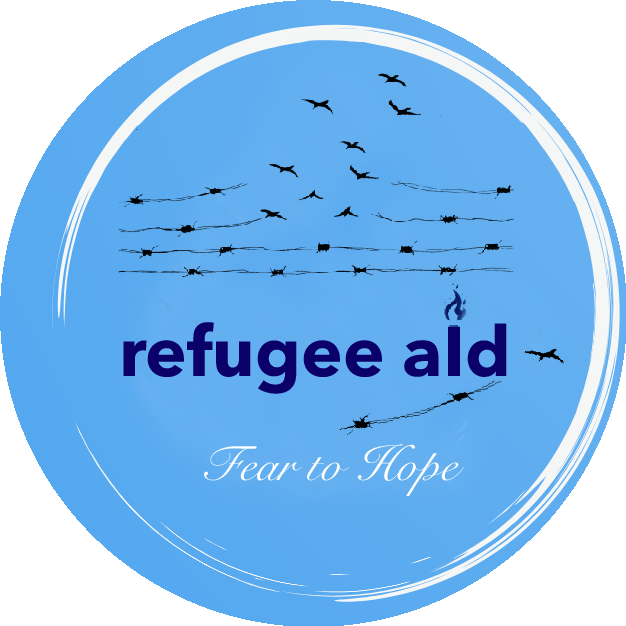
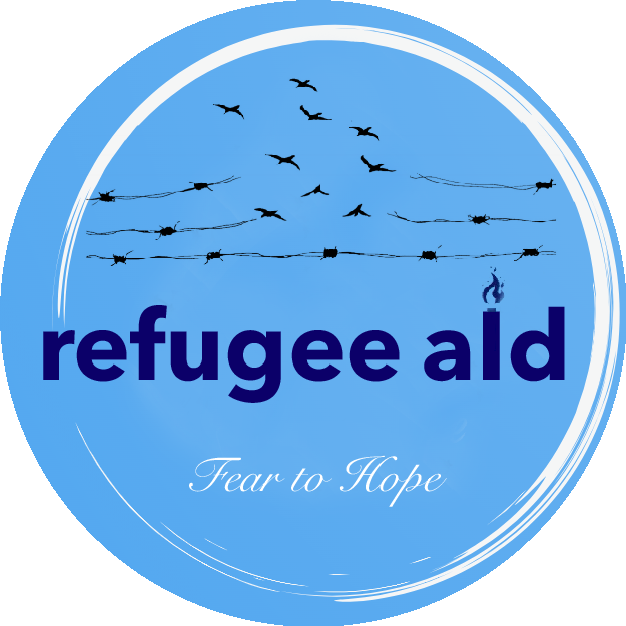
Add name change

diff --git a/public/index.html b/public/index.html
@@ -39,7 +39,7 @@
       work correctly both with client-side routing and a non-root public URL.
       Learn how to configure a non-root public URL by running `npm run build`.
     -->
-    <title>Refuge</title>
+    <title>Refugee Aid</title>
   </head>
   <body>
     <noscript>You need to enable JavaScript to run this app.</noscript>

diff --git a/src/Components/ProvideAidPage/ProvideAidPage.js b/src/Components/ProvideAidPage/ProvideAidPage.js
@@ -22,4 +22,5 @@ export default function ProvideAidPage() {
     </div>
   );
 }
+
     

diff --git a/README.md b/README.md
@@ -1,7 +1,7 @@
 <div>
     <h1 style="color:red; display: inline;">
       Refuge
-         <img src="https://github.com/Refugee-Aid-Capstone/refugee-aid-fe/blob/main/src/images/refuge.png" alt="refuge logo" width="105" style="margin-left: 5px; border-radius: 50%; vertical-align: middle;">
+         <img src="https://github.com/Refugee-Aid-Capstone/refugee-aid-fe/blob/main/src/images/refugee-aid.PNG" alt="refuge logo" width="105" style="margin-left: 5px; border-radius: 50%; vertical-align: middle;">
     </h1>
 </div>
 
